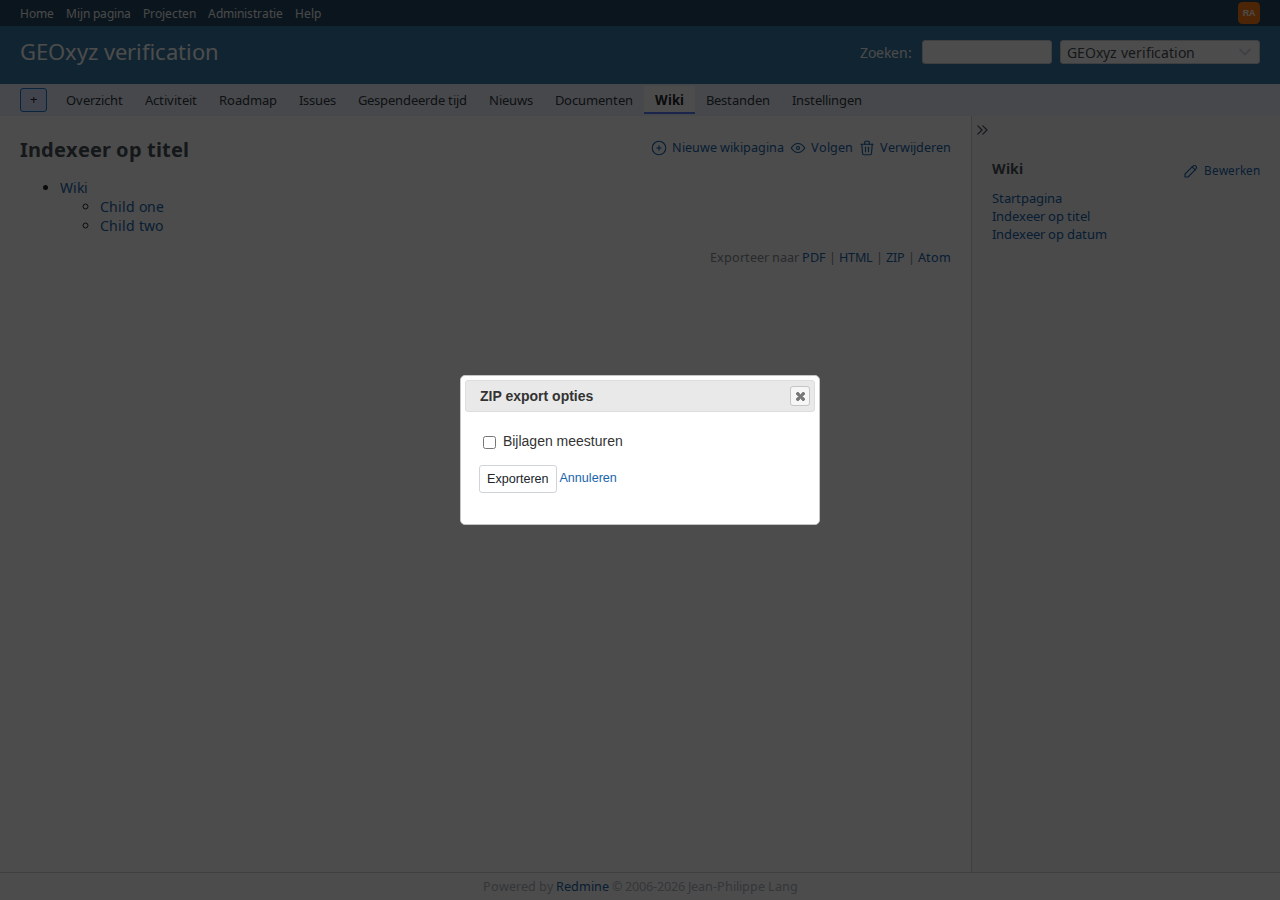
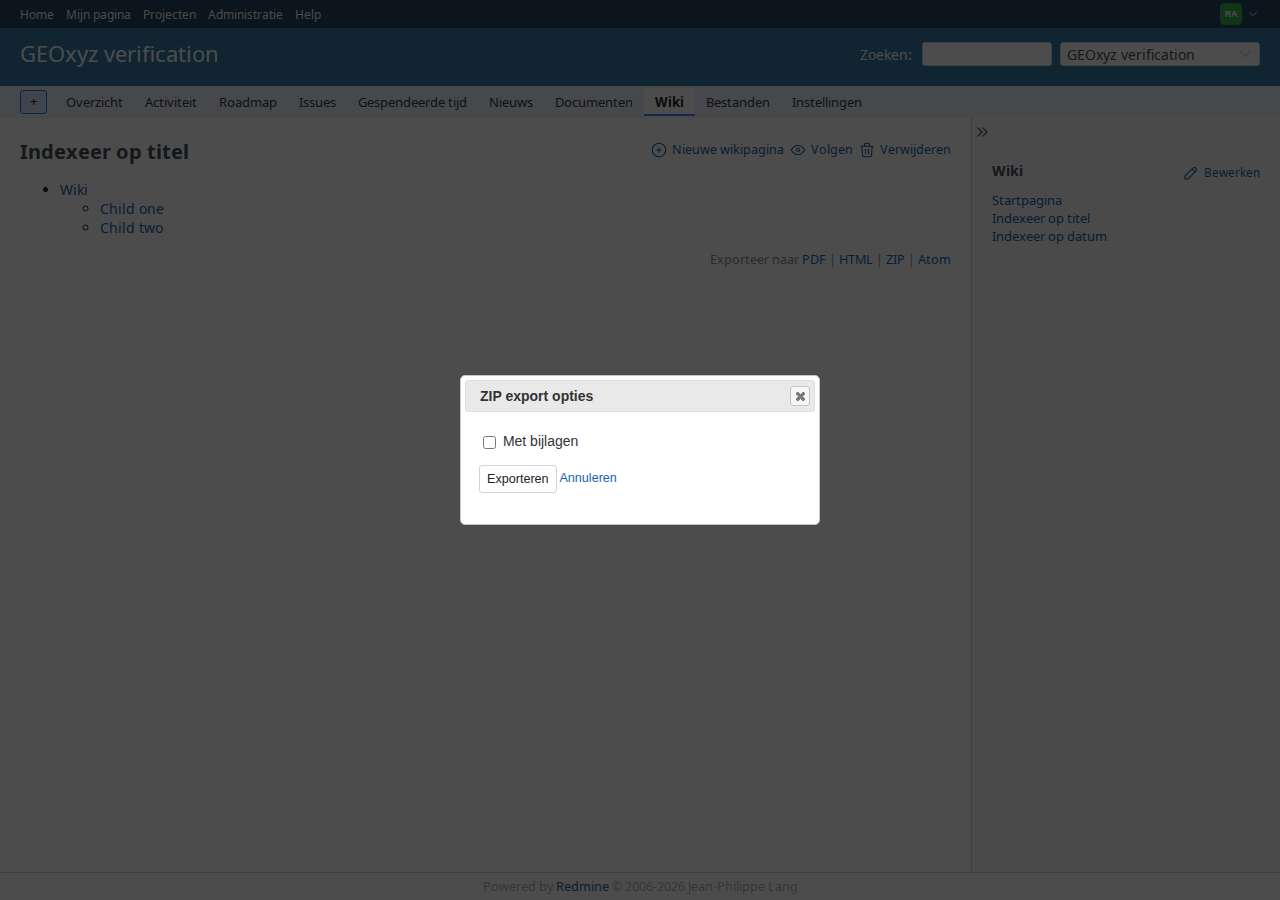
wiki-export-attachments: G9 opnieuw gereden na de ronde-3 wijzigingen, Nederlandse schermafbeelding vervangen

diff --git a/docs/features/wiki-export-attachments/dossier.md b/docs/features/wiki-export-attachments/dossier.md
@@ -421,6 +421,31 @@ is the 33-byte attachment and the page's own source is gone, and
 and the same for both `diagram*.txt`; four of the seven entries reach the disk.
 That pair of archives is the collision answer made visible.
 
+**Re-driven in the browser on 2026-09-08, after the round-3 changes.** Deleting
+the `NumberHelper` include and marking the helper's methods `private` are the
+kind of change a green suite can pass while the page stops working, so the
+collision case was clicked through again on a freshly seeded instance rather
+than trusted to the tests. The two colliding attachments were added through the
+application, the dialog was opened by clicking the `ZIP` link, the box was
+ticked and Export pressed, and the archive was extracted with Info-ZIP:
+
+    Wiki/Wiki.txt                 37 bytes — the page source, not the attachment
+    Wiki/notes.txt                38
+    Wiki/Wiki(1).txt              42 — the attachment named after the page
+    Wiki/Child_one(1)             65 — the one named after the child directory
+    Wiki/Child_one/Child_one.txt  43
+    Wiki/Child_one/diagram.txt    15
+    Wiki/Child_one/diagram(1).txt 31
+    Wiki/Child_two/Child_two.txt  43
+
+Eight entries, all eight on disk after `unzip -o`, and the **entry names are
+identical to `zip-with-attachments.zip`**. Only three byte counts differ, and
+only because the re-seeded attachment bodies are not the ones round 2 uploaded;
+the committed archives stay as they are, since they are the pair the before/after
+argument rests on. The same run took the Dutch dialog screenshot, so
+`shots/nl-zip-export-dialog.png` shows "Met bijlagen" from the running
+application and not from a locale file.
+
 Failure paths verified:
 
 | Case | Evidence | Expected | Observed |
